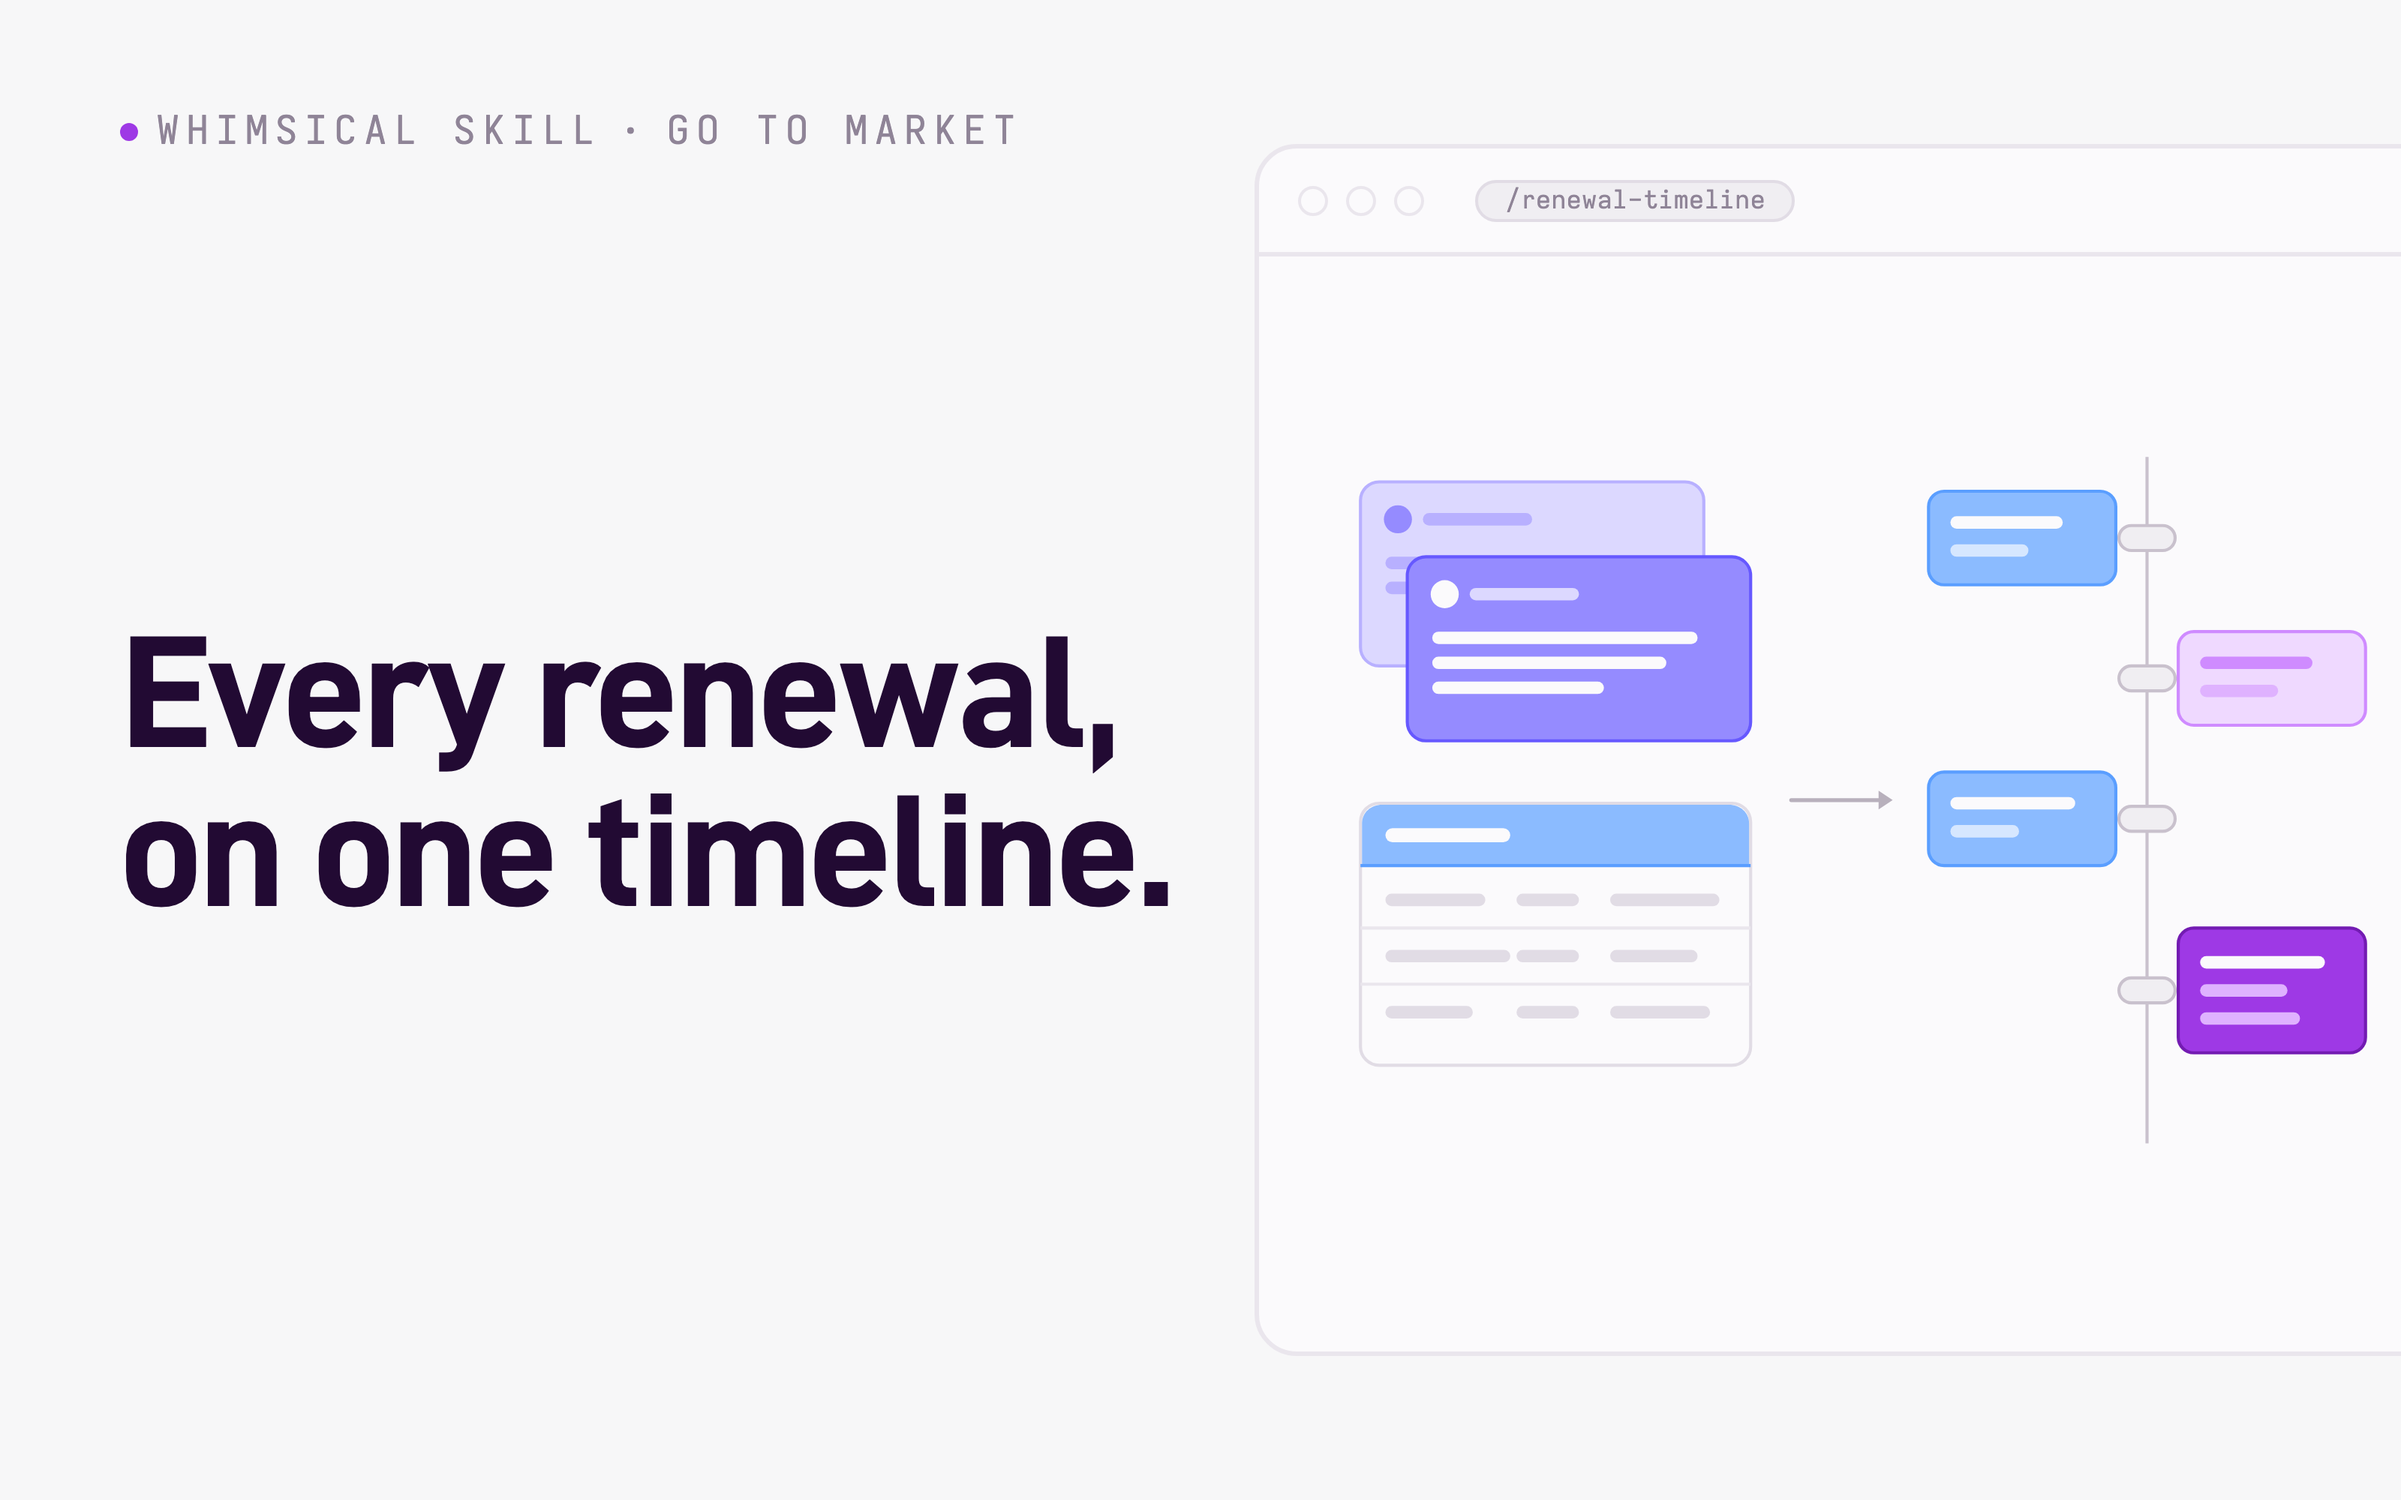
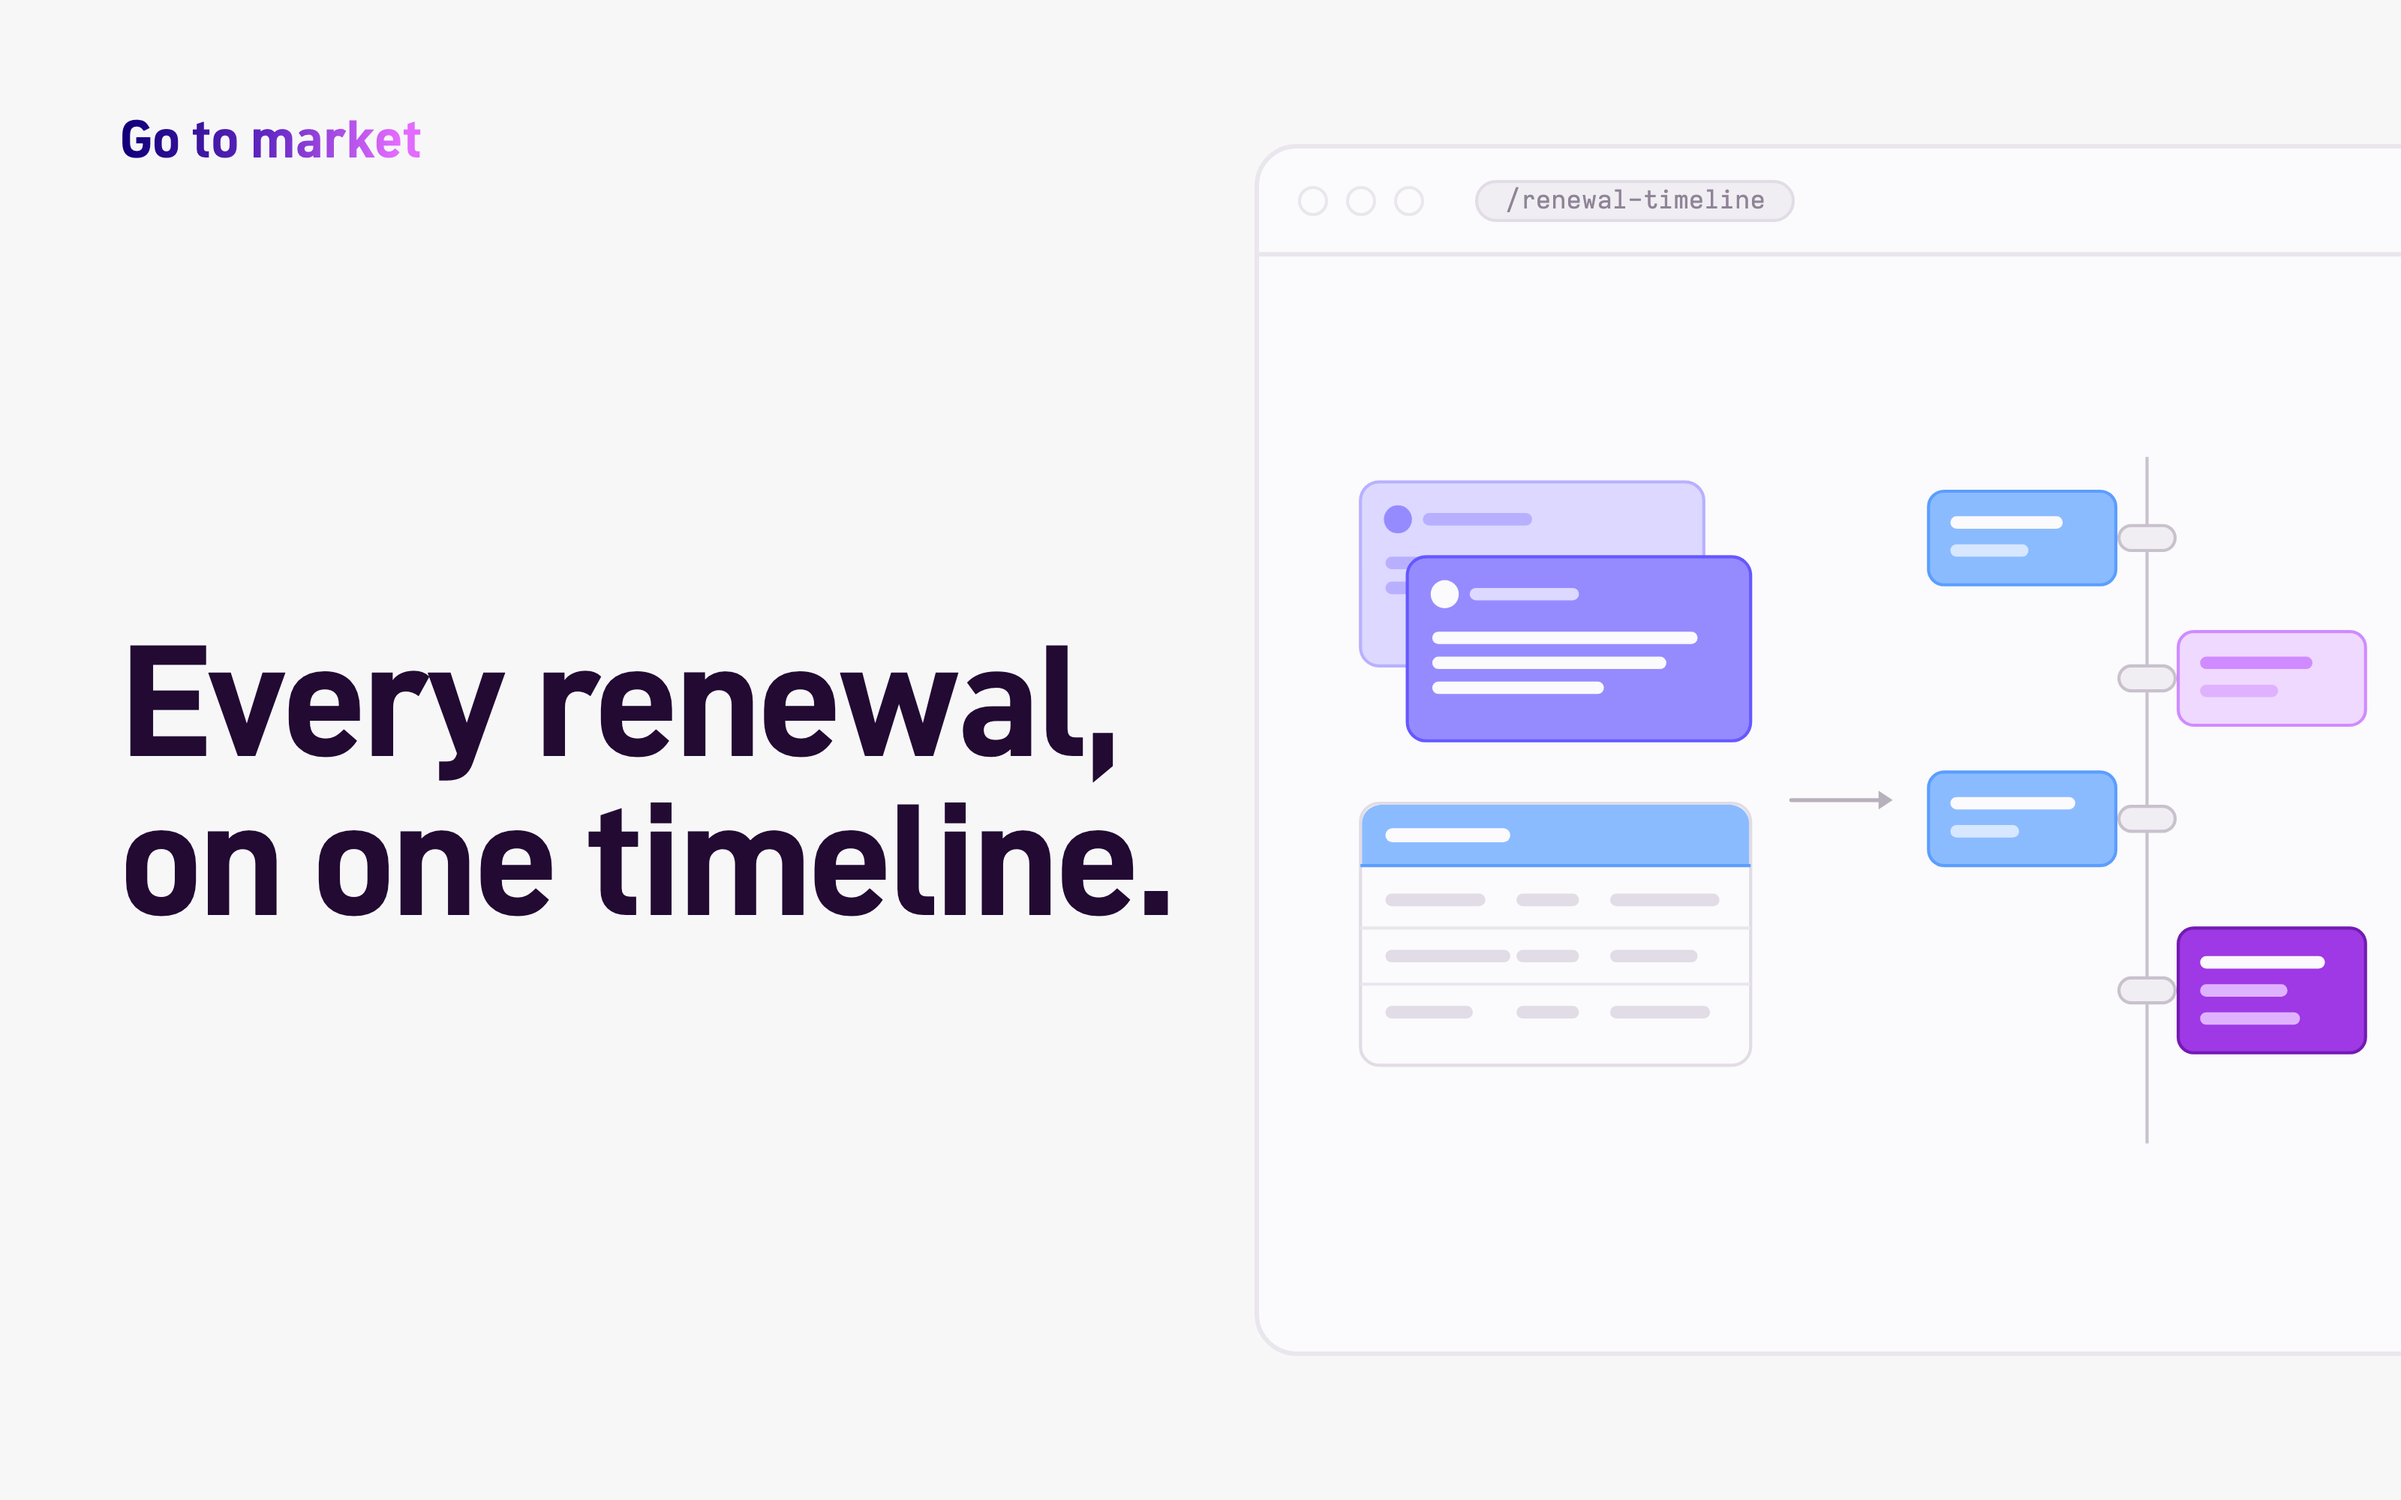
Label covers like whimsical.com does, without the dots
The cover label was an uppercase, letter-spaced 'Whimsical skill · Wireframes' with
a purple dot. It's now just the category, in sentence case and semibold, filled
with the brand gradient, like the section labels on whimsical.com.

Changed region(s): [[0.0625, 0.403, 0.5, 0.62], [0.0312, 0.062, 0.2188, 0.124], [0.2812, 0.062, 0.4062, 0.093]]

diff --git a/docs/covers/template.html b/docs/covers/template.html
@@ -15,8 +15,8 @@
   }
   body { width: 1600px; height: 1000px; overflow: hidden; font-family: Monsical, monospace; color: var(--ink); background: var(--bg); position: relative; }
   .text { position: absolute; left: 80px; top: 72px; bottom: 72px; width: 720px; display: flex; flex-direction: column; }
-  .kicker { font-size: 26px; letter-spacing: 0.16em; text-transform: uppercase; color: var(--muted); display: flex; gap: 12px; align-items: center; }
-  .kicker .dot { width: 12px; height: 12px; border-radius: 50%; background: var(--purple); }
+  /* Like the section labels on whimsical.com: sentence case, semibold, in the brand gradient. */
+  .category { align-self: flex-start; font-family: Dinsical, sans-serif; font-size: 36px; font-weight: 600; background: linear-gradient(93deg, #11007a 2.71%, #6328c3 48.51%, #e36bff 91.53%); -webkit-background-clip: text; background-clip: text; color: transparent; }
   h1 { margin: auto 0; font-family: Dinsical, sans-serif; font-size: 108px; line-height: 0.98; white-space: pre; font-weight: 700; letter-spacing: -0.025em; }
 
   /* The browser window from the tool cards on whimsical.com, running off the right edge. */
@@ -30,7 +30,7 @@
 </head>
 <body>
   <div class="text">
-    <div class="kicker"><span class="dot"></span>Whimsical skill <span>·</span> <span data-field="category"></span></div>
+    <p class="category" data-field="category"></p>
     <h1 data-field="headline"></h1>
   </div>
   <div class="window">

diff --git a/docs/covers/README.md b/docs/covers/README.md
@@ -21,8 +21,8 @@ For a skill named `<name>`:
    }
    ```
 
-   - `category`: the kind of work, in two or three words, like `Wireframes` or
-     `Go to market`.
+   - `category`: the kind of work, in two or three words and sentence case, like
+     `Wireframes` or `Go to market`.
    - `headline`: the promise, in at most two lines of about 15 characters each. Put the
      line break in yourself with `\n`.
 
